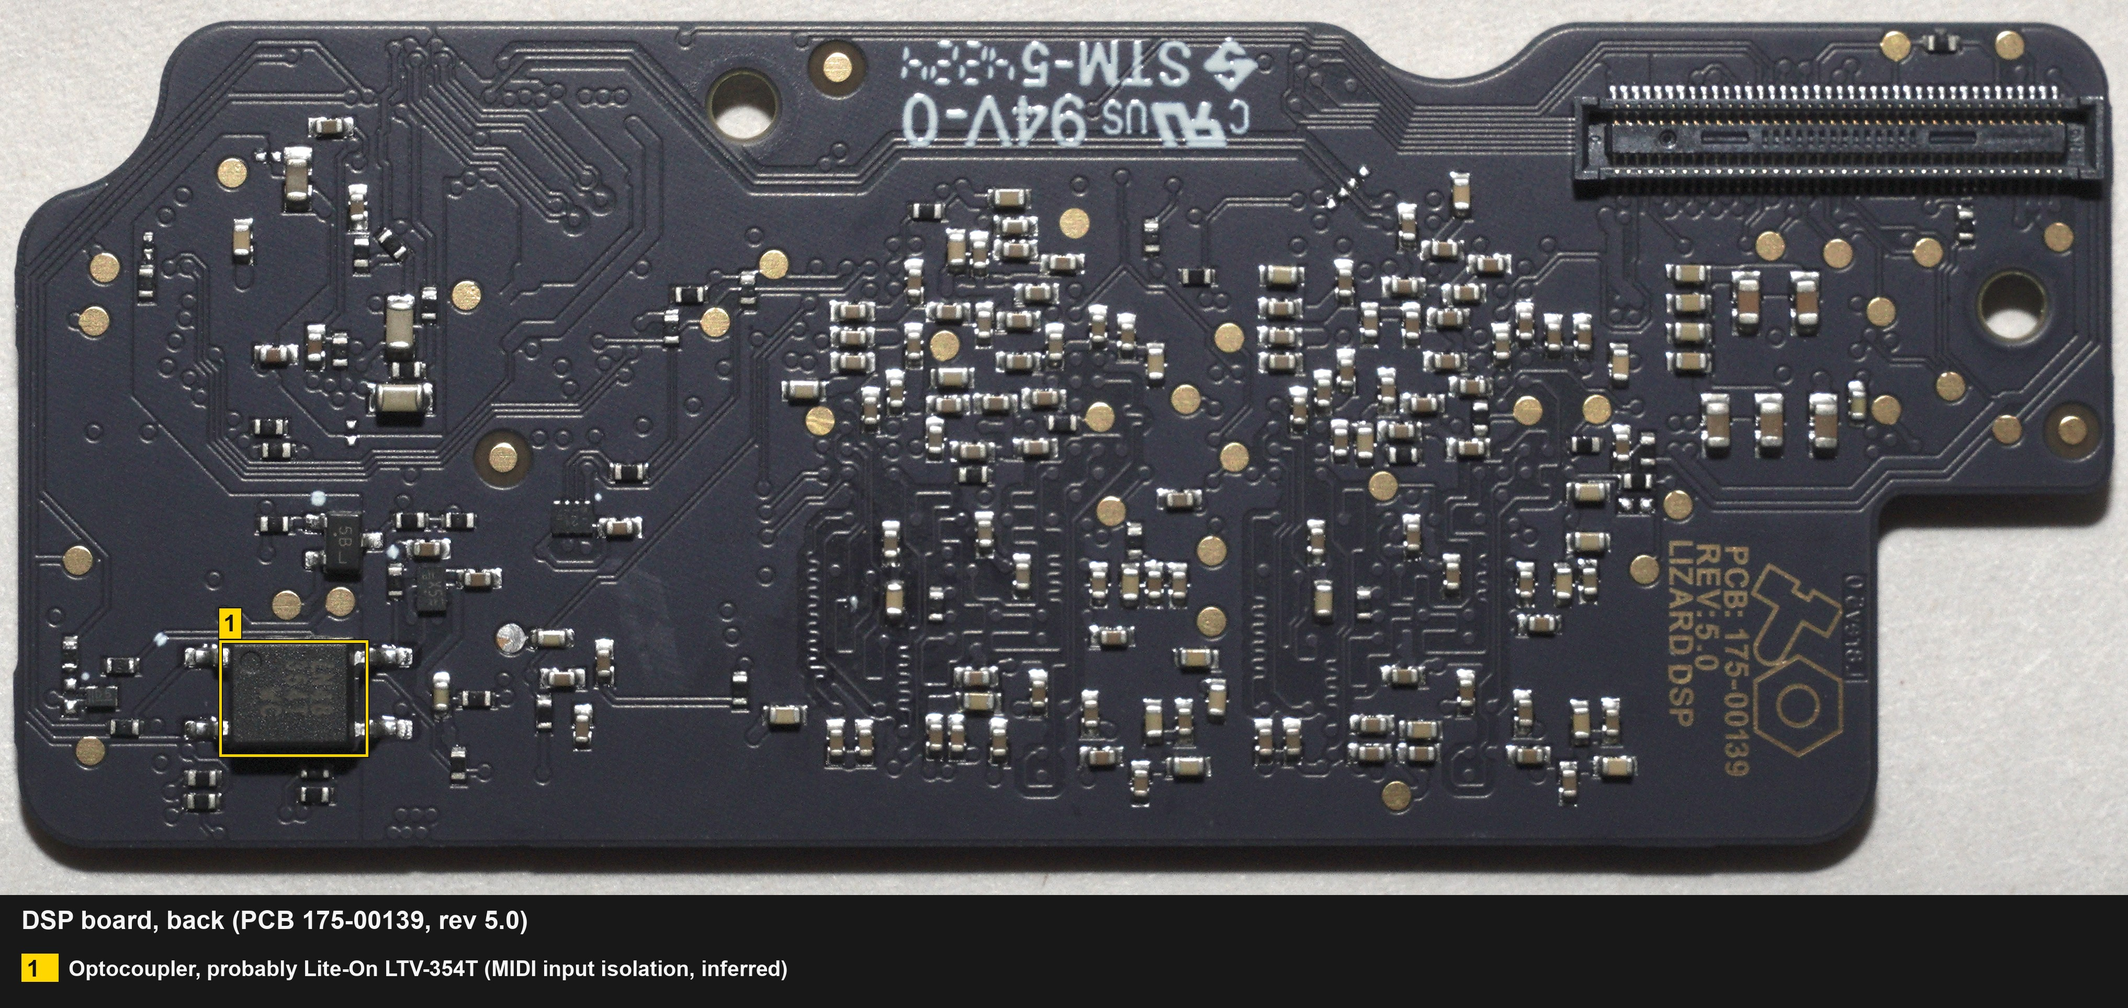
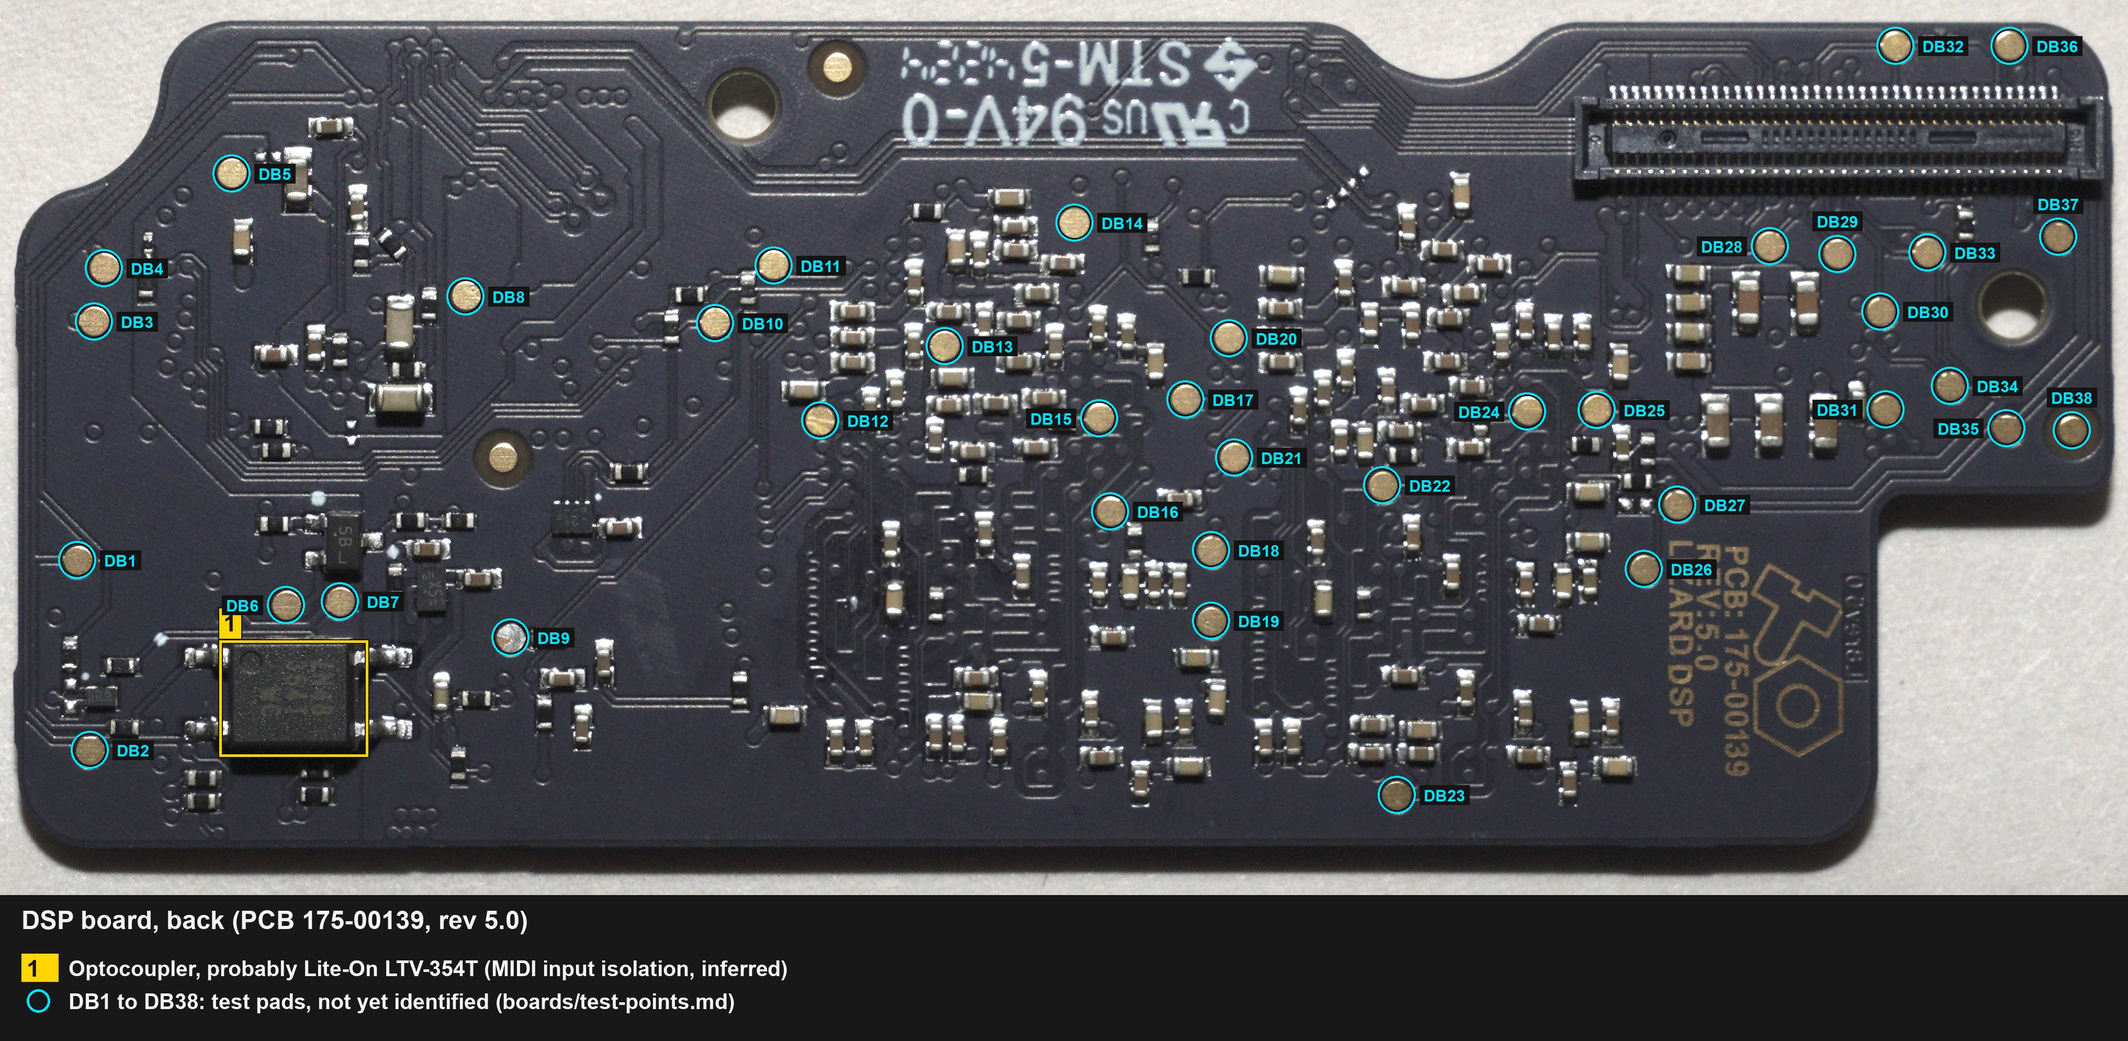
Identify the SPI flash as the IS25WP080D and number the test pads
The chip marked I6DEB3 on the DSP board is the ISSI IS25WP080D: the parts
list, the DSP board page, the photo labels and the overview and boards
diagrams now say so, and the open question about the flash package is closed.

Also adds boards/test-points.md, with every candidate test pad numbered and
drawn as a cyan circle on the annotated photos.

diff --git a/tools/annotate.py b/tools/annotate.py
@@ -2,7 +2,8 @@
 """Draw the annotated copies of the photos.
 
 Reads photos/labels.json and writes photos/<name>-annotated.jpg for each photo listed there:
-the original with a numbered box round each labelled chip, and a legend underneath.
+the original with a numbered box round each labelled chip, a circle round each listed test pad,
+and a legend underneath.
 
     python3 tools/annotate.py
 
@@ -20,6 +21,7 @@ PHOTOS = os.path.join(ROOT, "photos")
 
 KNOWN = (255, 214, 0)       # yellow: identified
 UNKNOWN = (255, 128, 0)     # orange: marking read, part not identified
+PAD = (0, 229, 255)         # cyan: test pad
 INK = (20, 20, 20)
 PAPER = (245, 245, 245)
 BAND = (24, 24, 24)
@@ -39,6 +41,39 @@ def font(size):
     sys.exit("annotate.py: no TrueType font found; add one to FONTS")
 
 
+def overlaps(a, b):
+    return a[0] < b[2] and b[0] < a[2] and a[1] < b[3] and b[1] < a[3]
+
+
+def draw_pads(d, pads, radius, size, unit, pad_font):
+    """Circle each test pad and write its id beside it, on whichever side is clear."""
+    w, h = size
+    line = max(2, round(4 * unit))
+    gap = round(8 * unit)
+    th = round(36 * unit)
+    taken = [(x - radius, y - radius, x + radius, y + radius) for x, y in (p["at"] for p in pads)]
+    for p in pads:
+        x, y = p["at"]
+        d.ellipse((x - radius, y - radius, x + radius, y + radius), outline=INK, width=line + 3)
+        d.ellipse((x - radius, y - radius, x + radius, y + radius), outline=PAD, width=line)
+    for p in pads:
+        x, y = p["at"]
+        tw = round(d.textlength(p["id"], font=pad_font)) + 2 * gap
+        spots = [
+            (x + radius + gap, y - th // 2),            # right
+            (x - radius - gap - tw, y - th // 2),       # left
+            (x - tw // 2, y - radius - gap - th),       # above
+            (x - tw // 2, y + radius + gap),            # below
+        ]
+        boxes = [(sx, sy, sx + tw, sy + th) for sx, sy in spots]
+        inside = [b for b in boxes if b[0] >= 0 and b[1] >= 0 and b[2] <= w and b[3] <= h]
+        clear = [b for b in inside if not any(overlaps(b, t) for t in taken)]
+        box = (clear or inside or boxes)[0]
+        taken.append(box)
+        d.rectangle(box, fill=INK)
+        d.text((box[0] + gap, box[1] + round(2 * unit)), p["id"], font=pad_font, fill=PAD)
+
+
 def annotate(name, spec):
     src = os.path.join(PHOTOS, name)
     im = Image.open(src).convert("RGB")
@@ -51,12 +86,13 @@ def annotate(name, spec):
     pad = round(10 * unit)
 
     labels = spec["labels"]
+    pads = spec.get("pads", [])
 
     # Legend: a title, then the labels in two columns.
     row_h = round(62 * unit)
     margin = round(40 * unit)
     half = (len(labels) + 1) // 2
-    band_h = margin + round(70 * unit) + half * row_h + margin
+    band_h = margin + round(70 * unit) + (half + bool(pads)) * row_h + margin
     out = Image.new("RGB", (w, h + band_h), BAND)
     out.paste(im, (0, 0))
     d = ImageDraw.Draw(out)
@@ -80,6 +116,9 @@ def annotate(name, spec):
         d.rectangle((tx0, ty0, tx0 + tw + 2 * pad, ty0 + th + pad), fill=colour, outline=INK, width=2)
         d.text((tx0 + pad, ty0 + pad // 2), tag, font=tag_font, fill=INK)
 
+    if pads:
+        draw_pads(d, pads, spec.get("pad_radius", round(34 * unit)), (w, h), unit, font(round(30 * unit)))
+
     d.text((margin, h + margin // 2), spec["title"], font=title_font, fill=PAPER)
     top = h + margin + round(70 * unit)
     col_w = (w - 2 * margin) // 2
@@ -93,6 +132,13 @@ def annotate(name, spec):
         d.rectangle((x, y, x + tw + 2 * pad, y + round(52 * unit)), fill=colour)
         d.text((x + pad, y + pad // 3), tag, font=tag_font, fill=INK)
         d.text((x + tw + 4 * pad, y + pad // 2), label["text"], font=text_font, fill=PAPER)
+
+    if pads:
+        y = top + half * row_h
+        r = round(22 * unit)
+        d.ellipse((margin + pad, y + pad // 2, margin + pad + 2 * r, y + pad // 2 + 2 * r), outline=PAD, width=line)
+        note = "%s to %s: test pads, not yet identified (boards/test-points.md)" % (pads[0]["id"], pads[-1]["id"])
+        d.text((margin + d.textlength("00", font=tag_font) + 4 * pad, y + pad // 2), note, font=text_font, fill=PAPER)
 
     dst = os.path.join(PHOTOS, os.path.splitext(name)[0] + "-annotated.jpg")
     out.save(dst, quality=90)

diff --git a/tools/diagrams.py b/tools/diagrams.py
@@ -101,7 +101,7 @@ def overview():
                 "link. The master connects to the display, the SPI flash, the nRF52840, the PSoC and "
                 "USB. The slave connects to the e-MMC and the audio and CV chips.")
     d.box(200, 40, 130, 56, "ST7796", "LCD, 222 × 480 visible")
-    d.box(350, 40, 130, 56, "SPI flash", "8 Mbit, program code")
+    d.box(350, 40, 130, 56, "IS25WP080D", "SPI flash, 8 Mbit")
     d.box(500, 40, 130, 56, "Kioxia e-MMC", "16 GB")
     d.link(300, 148, 300, 99, both=False)
     d.text(292, 124, "8080, 8-bit", anchor="end")
@@ -154,7 +154,7 @@ def boards():
     stack(44, 64, 132, [("ADSP-BF703", "Processor", "cpu"), ("IS43DR16128C", "DDR2, 2 Gbit", "part"),
                         ("CS47L35", "Audio codec", "part"), ("CS43131", "Headphone DAC", "part"),
                         ("AS3709", "Power management", "part"), ("25 and 24 MHz", "Crystals", "part"),
-                        ("Marked I6DEB3", "SPI flash?", "todo")])
+                        ("IS25WP080D", "SPI flash, 8 Mbit", "part")])
     stack(184, 64, 132, [("ADSP-BF703", "Processor", "cpu"), ("IS43DR16128C", "DDR2, 2 Gbit", "part"),
                          ("Kioxia e-MMC", "16 GB", "part"), ("TPS65132T6", "Split-rail supply", "part"),
                          ("LTV-354T?", "Optocoupler", "part"), ("TI, marked P145A", "Not identified", "todo")])

diff --git a/boards/test-points.md b/boards/test-points.md
@@ -1,0 +1,130 @@
+# Test points
+
+Every exposed pad in the board photos that looks like a test point, numbered so that measurements can be
+recorded against it. **None is identified yet**: the boards carry no test-point silkscreen, and the
+Signal column stays `Not measured` until someone probes the pad and says how.
+
+The numbers match the cyan circles on the annotated photos. The positions live in
+[labels.json](../photos/labels.json) under `pads`, in pixels of the original photo.
+
+## DSP board, back
+
+![DSP board, back, with the test pads numbered](../photos/cpu-pcb-back-annotated.jpg)
+
+38 pads, `DB1` to `DB38`, numbered left to right. This photo is mirrored left to right against the
+component side, so "behind processor one" is where that chip sits when the two photos are overlaid. The
+match is good to about a millimetre. A pad being behind a chip does not show that it connects to it.
+
+| Pad | Centre (x, y) | Where | Notes | Signal |
+|---|---|---|---|---|
+| DB1 | 147, 1070 | Audio end, near the optocoupler | | Not measured |
+| DB2 | 171, 1433 | Audio end, near the optocoupler | | Not measured |
+| DB3 | 179, 614 | Audio end, behind the DAC and codec | | Not measured |
+| DB4 | 198, 512 | Audio end, behind the DAC and codec | | Not measured |
+| DB5 | 442, 331 | Audio end, behind the DAC and codec | | Not measured |
+| DB6 | 546, 1156 | Audio end, near the optocoupler | | Not measured |
+| DB7 | 649, 1149 | Audio end, near the optocoupler | | Not measured |
+| DB8 | 889, 566 | Audio end, behind the DAC and codec | | Not measured |
+| DB9 | 975, 1218 | Audio end, near the optocoupler | Covered in solder, unlike the others | Not measured |
+| DB10 | 1366, 617 | Between processor two and the audio end | | Not measured |
+| DB11 | 1478, 507 | Between processor two and the audio end | | Not measured |
+| DB12 | 1567, 803 | Behind processor two | | Not measured |
+| DB13 | 1805, 661 | Behind processor two | | Not measured |
+| DB14 | 2053, 425 | Behind processor two | | Not measured |
+| DB15 | 2100, 799 | Behind processor two | | Not measured |
+| DB16 | 2121, 977 | Behind processor two | | Not measured |
+| DB17 | 2265, 763 | Between the two processors | | Not measured |
+| DB18 | 2314, 1051 | Between the two processors | | Not measured |
+| DB19 | 2314, 1186 | Between the two DDR2 chips | | Not measured |
+| DB20 | 2348, 646 | Between the two processors | | Not measured |
+| DB21 | 2358, 874 | Behind processor one | | Not measured |
+| DB22 | 2641, 927 | Behind processor one | | Not measured |
+| DB23 | 2669, 1519 | Behind the DDR2 of processor one | | Not measured |
+| DB24 | 2918, 786 | Behind processor one | | Not measured |
+| DB25 | 3051, 783 | Between processor one and the power end | | Not measured |
+| DB26 | 3141, 1087 | Between processor one and the power end | | Not measured |
+| DB27 | 3205, 964 | Between processor one and the power end | | Not measured |
+| DB28 | 3382, 470 | Power end, behind the AS3709 and its inductors | | Not measured |
+| DB29 | 3511, 485 | Power end, behind the AS3709 and its inductors | | Not measured |
+| DB30 | 3593, 595 | Power end, behind the AS3709 and its inductors | | Not measured |
+| DB31 | 3603, 782 | Power end, behind the AS3709 and its inductors | | Not measured |
+| DB32 | 3622, 87 | Beside the board-to-board connector | | Not measured |
+| DB33 | 3683, 482 | Power end, behind the AS3709 and its inductors | | Not measured |
+| DB34 | 3726, 737 | Power end, behind the AS3709 and its inductors | | Not measured |
+| DB35 | 3834, 818 | Power end, behind the AS3709 and its inductors | | Not measured |
+| DB36 | 3840, 87 | Beside the board-to-board connector | | Not measured |
+| DB37 | 3933, 452 | Power end, behind the AS3709 and its inductors | | Not measured |
+| DB38 | 3959, 822 | Power end, behind the AS3709 and its inductors | | Not measured |
+
+Not numbered: two gold dots with a wide bare ring round them, top centre and centre left. They look like
+fiducials for the assembly machines.
+
+## DSP board, component side
+
+![DSP board, component side, with the test pads numbered](../photos/cpu-pcb-front-annotated.jpg)
+
+9 pads, `DF1` to `DF9`. They are smaller than the pads on the back.
+
+| Pad | Centre (x, y) | Where | Notes | Signal |
+|---|---|---|---|---|
+| DF1 | 937, 481 | Left of processor one, beside the power inductors | | Not measured |
+| DF2 | 970, 796 | Left of processor one, beside the power inductors | Small hole in the centre | Not measured |
+| DF3 | 2570, 565 | Right edge of processor two | | Not measured |
+| DF4 | 2580, 753 | Right edge of processor two | | Not measured |
+| DF5 | 2618, 1232 | Between the DDR2 of processor two and the e-MMC | Row of three, each with a trace toward the e-MMC | Not measured |
+| DF6 | 2618, 1298 | Between the DDR2 of processor two and the e-MMC | Row of three | Not measured |
+| DF7 | 2618, 1370 | Between the DDR2 of processor two and the e-MMC | Row of three | Not measured |
+| DF8 | 2757, 840 | Between processor two and the headphone DAC | On a trace; small hole in the centre | Not measured |
+| DF9 | 2782, 737 | Between processor two and the headphone DAC | On a trace | Not measured |
+
+Not numbered: three ringed fiducials (far left, top centre, and above the e-MMC).
+
+## Backplane
+
+![Backplane, with the test pads numbered](../photos/main-boards-annotated.jpg)
+
+10 pads, `BP1` to `BP10`, on the one side that has been photographed. No pad is visible beside the
+PSoC on this side, so its debug pads, if it has any, are on the other side or reached through a connector.
+
+| Pad | Centre (x, y) | Where | Notes | Signal |
+|---|---|---|---|---|
+| BP1 | 783, 528 | Between the speaker amplifier and the nRF52840, beside a screw | Two very small pads side by side | Not measured |
+| BP2 | 916, 454 | Below the nRF52840 | Round, with a dot in the centre; may be a fiducial | Not measured |
+| BP3 | 1429, 513 | Left of the left-hand board-to-board connector | Oblong, upper of a pair | Not measured |
+| BP4 | 1429, 550 | Left of the left-hand board-to-board connector | Oblong, lower of a pair | Not measured |
+| BP5 | 1797, 599 | Right of the left-hand board-to-board connector | Oblong, left of a pair | Not measured |
+| BP6 | 1830, 599 | Right of the left-hand board-to-board connector | Oblong, right of a pair | Not measured |
+| BP7 | 1855, 528 | Right of the left-hand board-to-board connector | Oblong, left of a pair | Not measured |
+| BP8 | 1887, 528 | Right of the left-hand board-to-board connector | Oblong, right of a pair | Not measured |
+| BP9 | 3132, 571 | Beside the screw left of the DSP board | | Not measured |
+| BP10 | 3187, 496 | Beside the screw left of the DSP board | | Not measured |
+
+The oblong pairs may be unfitted two-pad parts or solder jumpers rather than probe points. The gold
+shapes between the front end and the antenna connectors are radio-frequency traces, not test pads.
+
+## What to look for
+
+Pin names are from the manufacturers' datasheets (linked in [parts.md](../parts.md)). Take ball and pin
+numbers from there.
+
+| Chip | Debug and boot signals |
+|---|---|
+| ADSP-BF703 (two) | JTAG or SWD: `JTG_TCK_SWCLK`, `JTG_TMS_SWDIO`, `JTG_TDO_SWO`, `JTG_TDI`, `JTG_TRST`. Boot and reset: `SYS_HWRST`, `SYS_BMODE0`, `SYS_BMODE1`, `SYS_FAULT`, `SYS_CLKOUT`. UART0 is also a boot source |
+| CY8C4247 (PSoC 4200L) | SWD: `SWDIO`, `SWDCLK`, and reset `XRES` |
+| nRF52840 | SWD: `SWDIO`, `SWDCLK`, and `nRESET` |
+
+The BF703 is a ball-grid package, so a pad cannot be traced to a ball with a meter. The debug port may
+also be locked in the processor's one-time-programmable memory.
+
+## How to identify a pad
+
+1. **Unpowered, battery unplugged.** Find ground, then note each pad's diode-mode reading to ground. Power
+   rails and plain signals separate quickly, and two pads that read alike, one near each processor, are
+   likely the same signal on each.
+2. **Powered.** Note each pad's idle voltage, then watch it through a boot with a scope or logic analyser.
+   Debug pins sit still at a rail or at ground; a UART idles high and sends bursts; a clock is plain.
+   Measure the I/O voltage before connecting any tool.
+3. **Scan.** Wire the pads that sit still to a JTAG pin finder and run an IDCODE scan and an SWD scan.
+
+When a pad is identified, put the signal in the table with how it was found, for example
+`3.3 V rail (meter)` or `JTG_TCK (IDCODE scan)`.

diff --git a/parts.md b/parts.md
@@ -32,7 +32,7 @@
 | Bluetooth LE | Nordic Semiconductor **nRF52840** (CKAA package, a WLCSP) | marking *(close-up)*: `N52840 / CKAAD0 / 2241KU`. Takes Nordic DFU updates | backplane | Master UART1, 1 Mbaud, RTS/CTS | [nRF52840 product page](https://www.nordicsemi.com/Products/nRF52840) |
 | 2.4 GHz front end for the nRF52840 | Skyworks **SKY66404-11** (PA, LNA and antenna switch in a 22-pad module) | marking *(close-up)*: Skyworks logo and `66404` | backplane, between the nRF52840 and the antenna connector | Two antenna outputs. One is silkscreened `to ble clip`; the other label is partly covered by its cable | [SKY66404-11 product page](https://www.skyworksinc.com/Products/Front-end-Modules/SKY66404-11) |
 | Optocoupler, probably the MIDI input isolation | 4-pin SOP, probably Lite-On **LTV-354T** | marking *(close-up)*: a logo, then `N48 / 354T / WC`. The part is inferred from `354T`, and the role from the package | DSP, back | Not traced | — |
-| Program flash, 1 MiB | ISSI **IS25WP080D** (8 Mbit, 1.8 V SPI NOR) | ID read `9d 70 14`: `9d` is ISSI; the device bytes are not yet checked against the datasheet. Not yet matched to a package (see the next table) | ? | Master SPI2; the boot ROM boots from it | [ISSI serial flash page](https://www.issi.com/US/product-flash.shtml) |
+| Program flash, 1 MiB | ISSI **IS25WP080D** (8 Mbit, 1.8 V SPI NOR) | ID read `9d 70 14` (JEDEC ID), which is the IS25WP080D's in the ISSI datasheet: `9d` is ISSI, `70` the memory type and `14` the capacity. Marking *(close-up)*: `I6DEB3 / P1L944`, on an 8-pad leadless package | DSP, between the two processors | Master SPI2; the boot ROM boots from it | [ISSI serial flash page](https://www.issi.com/US/product-flash.shtml) |
 | Display controller | Sitronix **ST7796** family (ST7796S command set) | ID read: RDID4 `00 77 96` | ? | 8080 8-bit parallel to the master; 320×480 controller, 222×480 visible | [Sitronix](https://www.sitronix.com.tw/en/) (no public product page; the ST7796S datasheet is widely mirrored) |
 | RTC | On-chip RTC of the ADSP-BF703 | n/a (on-chip) | — | — | see ADSP-BF703 |
 | USB | On-chip USB 2.0 OTG controller and PHY of the master ADSP-BF703 | n/a (on-chip) | — | — | see ADSP-BF703 |
@@ -65,7 +65,6 @@ These markings are legible in a close-up but have not been matched to a part num
 
 | Board | Package | Marking | Notes |
 |---|---|---|---|
-| DSP, between the two processors | 8-pad leadless | `I6DEB3 / P1L944` | A candidate for the SPI flash by package and position. Not confirmed |
 | DSP, by the e-MMC | 10-pin VSSOP, Texas Instruments | `TI 34 / P145A / 751Z` | Next to the TPS65132T6 |
 | DSP | SOT-23, 5 or 6 pins | `1CUV` | |
 | DSP, both sides | 6-pad leadless, several | `X5` | |
@@ -99,9 +98,8 @@ charger, the PSoC, the Nordic part and its front end, and which board each of th
 
 Still open:
 
-1. The SPI flash package: whether the chip marked `I6DEB3` is the IS25WP080D.
-2. The CV output DAC, and whether the TI part marked `P145A` is it.
-3. The parts in the "marking read" table above, most of all the two `Z41KJ` chips on the keyboard.
-4. The key LED driver at I2C `0x34`, and where the FUSB302, LSM6DSO and TW11 sit.
-5. The display module and its flex marking.
-6. The underside of the backplane and the key side of the keyboard, which no photo shows yet.
+1. The CV output DAC, and whether the TI part marked `P145A` is it.
+2. The parts in the "marking read" table above, most of all the two `Z41KJ` chips on the keyboard.
+3. The key LED driver at I2C `0x34`, and where the FUSB302, LSM6DSO and TW11 sit.
+4. The display module and its flex marking.
+5. The underside of the backplane and the key side of the keyboard, which no photo shows yet.

diff --git a/boards/dsp.md b/boards/dsp.md
@@ -24,7 +24,7 @@ above.
 | 9 | `TPS / 65132T6` | Texas Instruments TPS65132T6 | Split-rail supply |
 | 10 | `25.0 / AD3C` | 25.0 MHz crystal | Processor clock |
 | 11 | `24.0 / AG39` | 24.0 MHz crystal | Probably the USB clock |
-| 12 | `I6DEB3 / P1L944` | Not identified | 8-pad leadless package between the processors. A candidate for the SPI flash |
+| 12 | `I6DEB3 / P1L944` | ISSI IS25WP080D | 8 Mbit SPI flash holding the program code, in an 8-pad leadless package between the processors |
 | 13 | `TI 34 / P145A / 751Z` | Not identified (Texas Instruments, 10-pin VSSOP) | Unknown |
 
 ### Back
@@ -35,7 +35,9 @@ above.
 |---|---|---|---|
 | 1 | logo, `N48 / 354T / WC` | Probably Lite-On LTV-354T | 4-pin optocoupler, probably the MIDI input isolation |
 
-The back otherwise carries passives, a few small transistors and the second board-to-board connector.
+The back otherwise carries passives, a few small transistors, the second board-to-board connector and
+38 unlabelled test pads. The cyan circles on both photos are the pads listed in
+[test-points.md](test-points.md).
 
 ## Board markings
 

diff --git a/README.md b/README.md
@@ -14,6 +14,7 @@ This is an unofficial community reference. It is not affiliated with or endorsed
 | [boards/dsp.md](boards/dsp.md) | The DSP board: processors, memory, storage, audio converters |
 | [boards/backplane.md](boards/backplane.md) | The backplane: coprocessor, charging, Bluetooth, speaker amplifier |
 | [boards/keyboard.md](boards/keyboard.md) | The keyboard board |
+| [boards/test-points.md](boards/test-points.md) | Every candidate test pad, numbered on the photos. None identified yet |
 | [photos/](photos/) | The photos, each board photo with an annotated copy |
 
 ![Inside the unit: the backplane with its chips numbered](photos/main-boards-annotated.jpg)

diff --git a/photos/README.md b/photos/README.md
@@ -25,7 +25,8 @@ python3 tools/annotate.py
 ```
 
 The script needs Pillow and never changes the originals. A yellow box is an identified part. An orange
-box is a chip whose marking is read but whose part number is not known yet.
+box is a chip whose marking is read but whose part number is not known yet. A cyan circle is a test pad
+from the photo's `pads` list, described in [test-points.md](../boards/test-points.md).
 
 ## Naming
 

diff --git a/boards/backplane.md b/boards/backplane.md
@@ -29,6 +29,8 @@ Also on this side, not numbered: a 32 MHz crystal and a smaller one beside the n
 whose markings are read but not identified (see
 [parts.md](../parts.md#marking-read-part-not-identified)).
 
+The cyan circles are the candidate test pads listed in [test-points.md](test-points.md).
+
 ## Antennas
 
 Two coaxial connectors sit after the front end. One is silkscreened `to ble clip`. The other carries the
